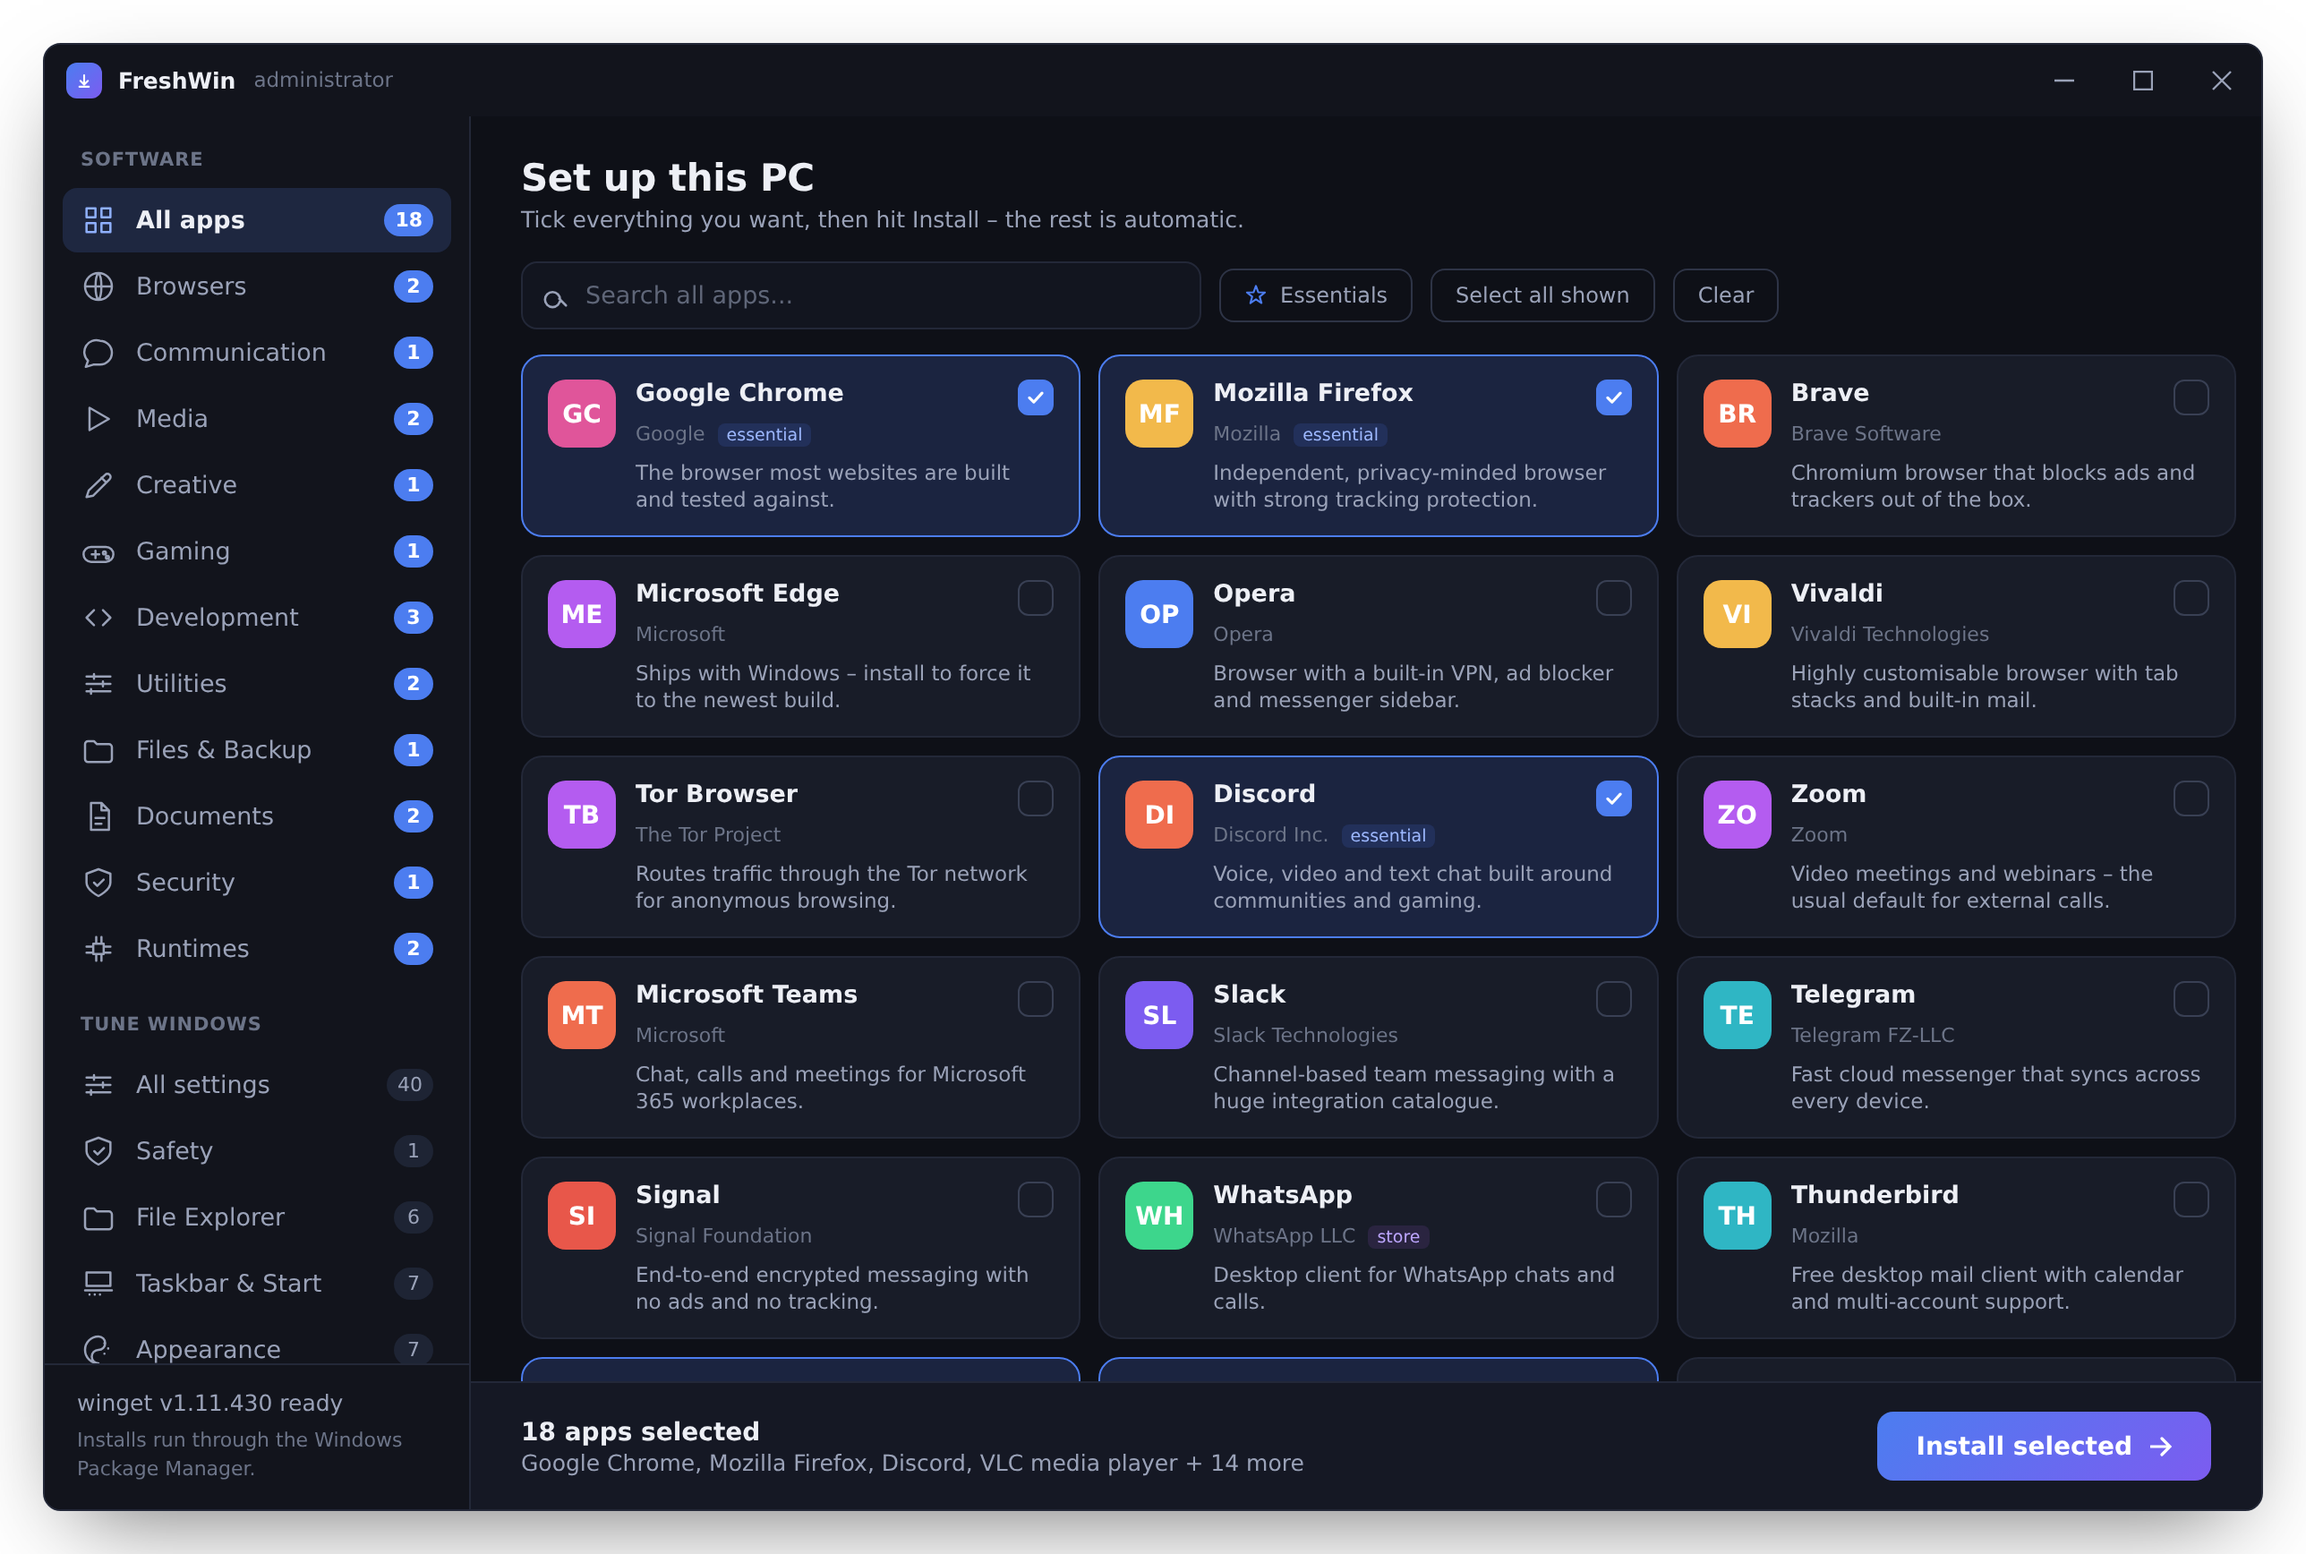
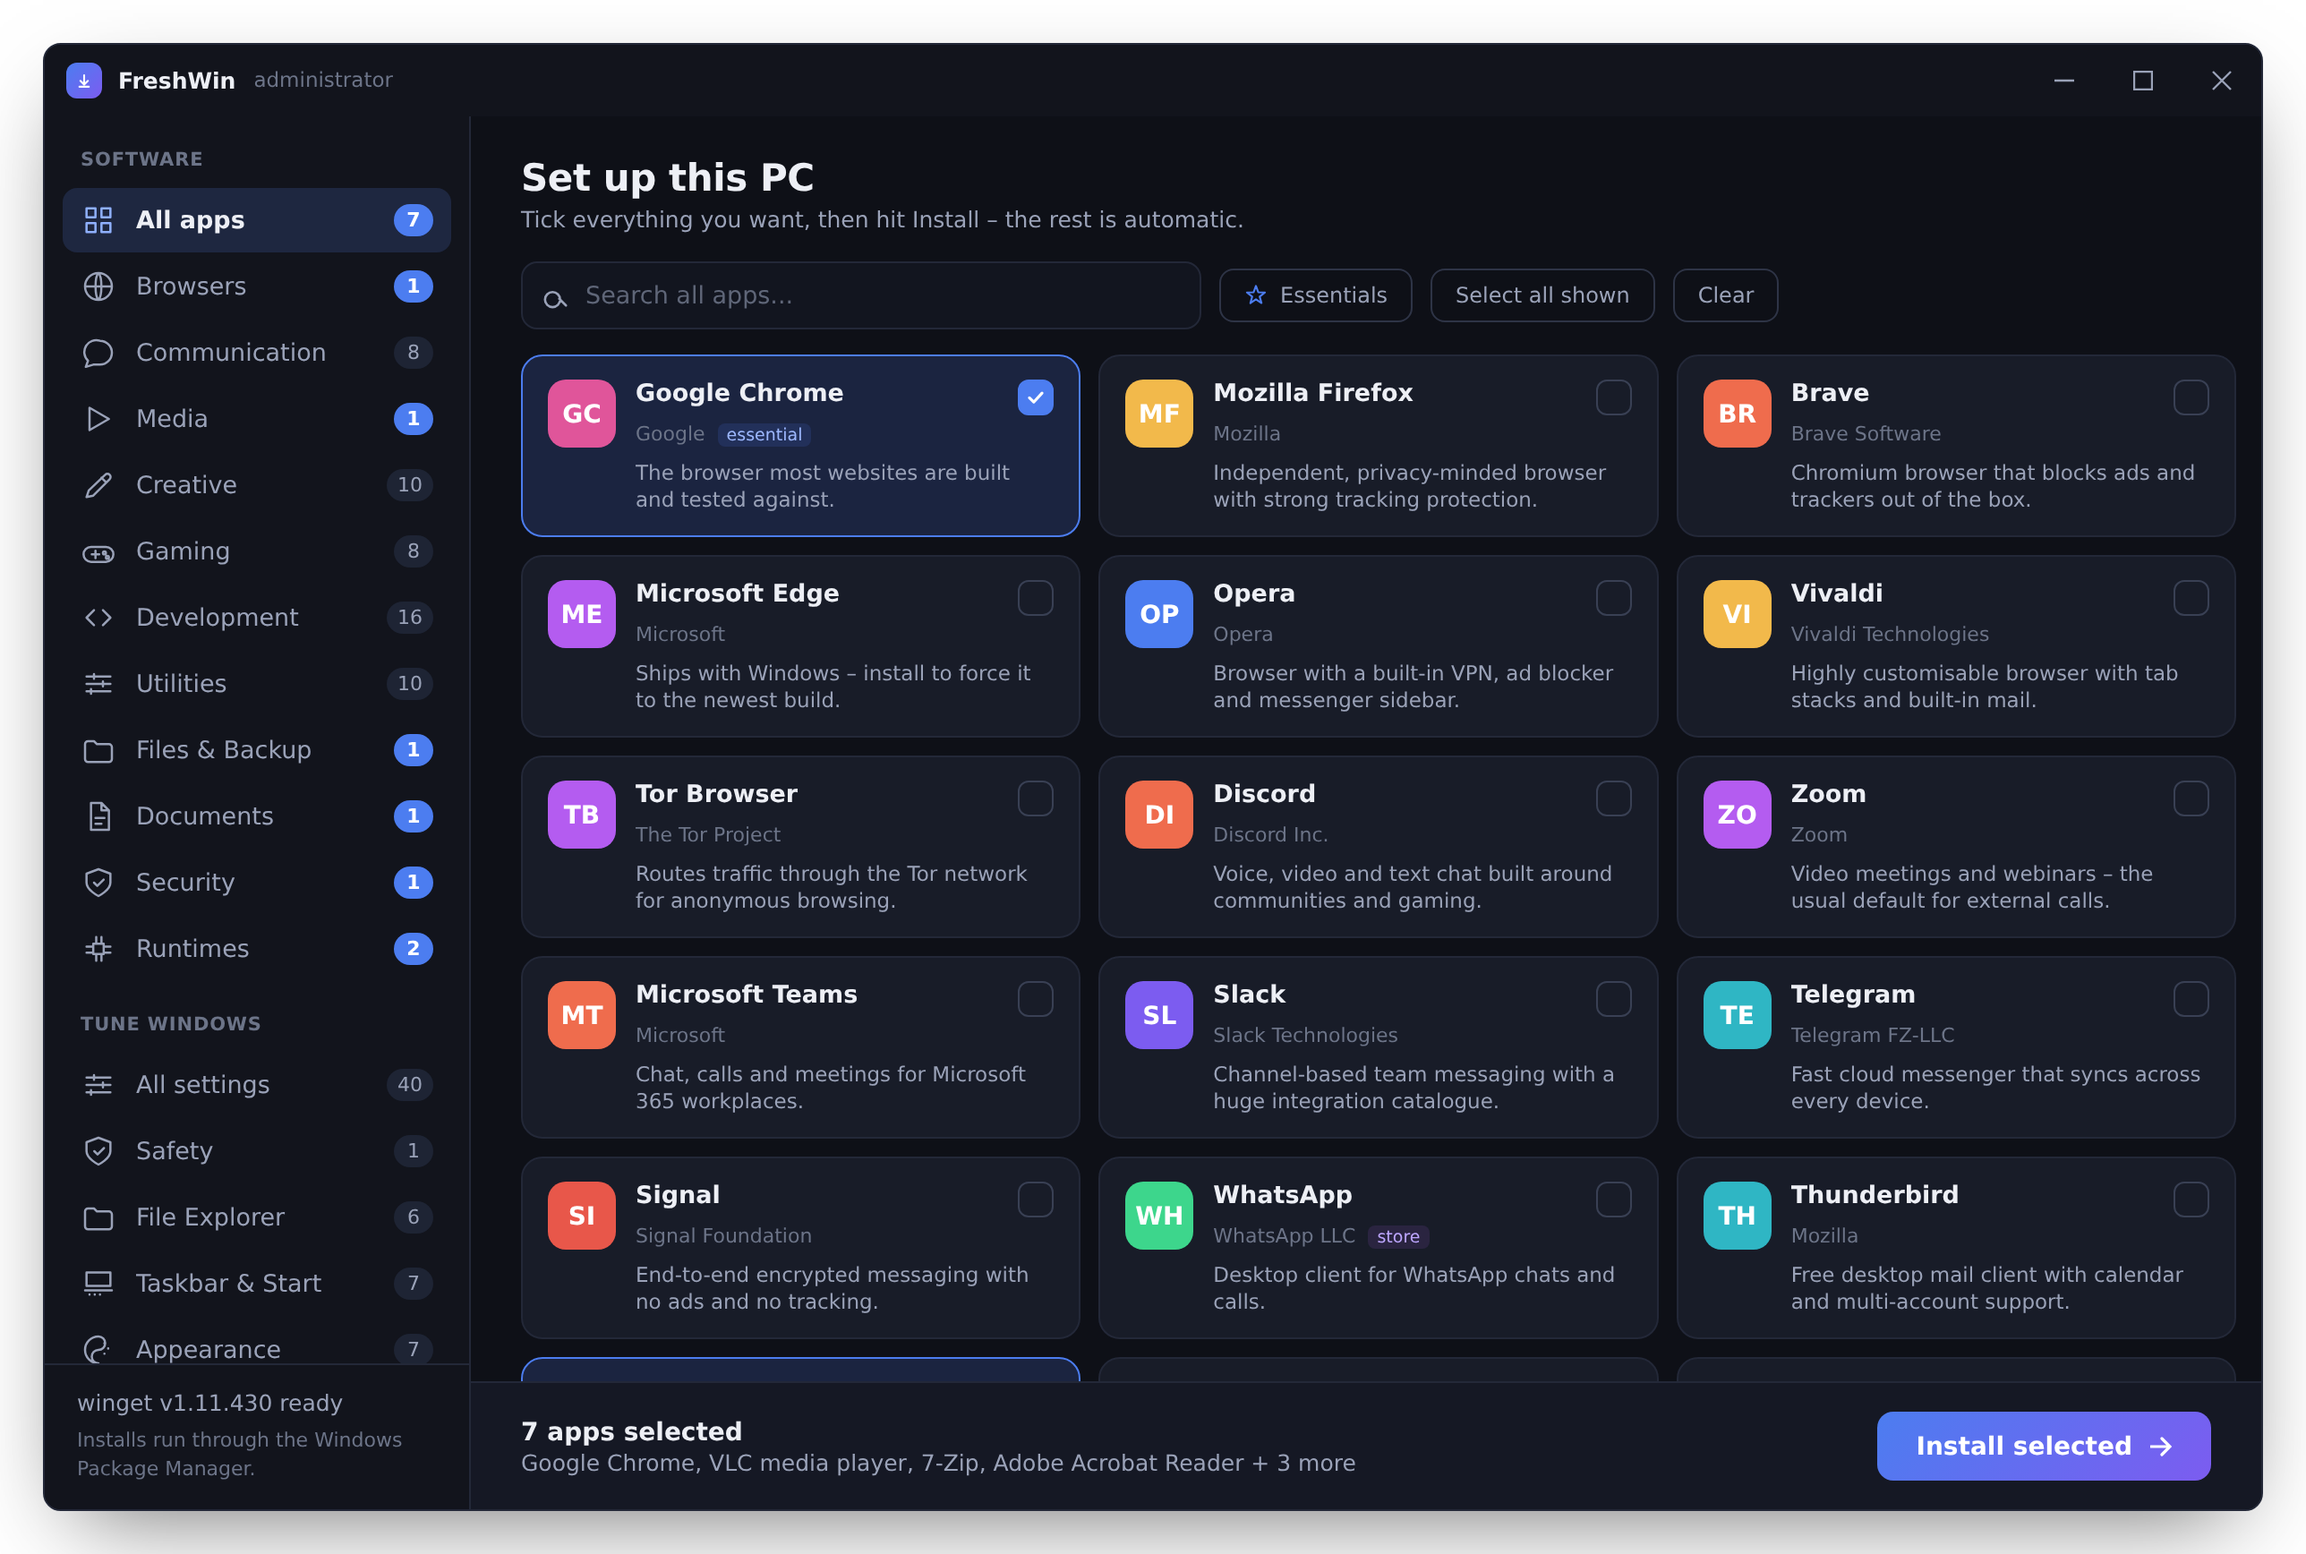
Cut Essentials down to what is genuinely universal
The preset held 18 apps and was really "what a developer who games would
install": Steam, Discord, VS Code, Git, Spotify. A preset people tick without
reading has to contain nothing that is a matter of taste, so it is now seven:
Chrome, VLC, 7-Zip, Adobe Acrobat Reader, Bitwarden, and the Visual C++ and
.NET runtimes a large share of other software expects.

Adobe Acrobat Reader replaces SumatraPDF in the preset. Sumatra is smaller and
faster, but it cannot fill in forms or handle signatures, which is most of what
people actually open a PDF reader for. Both stay in the catalogue.

LibreOffice was the worst of them: on a PC that already has Microsoft 365 it
duplicates every application and takes over the file associations.

Everything dropped is still one click away in the catalogue.

diff --git a/src/FreshWin/Services/Catalog.cs b/src/FreshWin/Services/Catalog.cs
@@ -40,7 +40,7 @@ public static class Catalog
         // ---------------------------------------------------------------- Browsers
         new() { Id = "Google.Chrome", Name = "Google Chrome", Publisher = "Google", Category = Browsers, Essential = true,
                 Description = "The browser most websites are built and tested against." },
-        new() { Id = "Mozilla.Firefox", Name = "Mozilla Firefox", Publisher = "Mozilla", Category = Browsers, Essential = true,
+        new() { Id = "Mozilla.Firefox", Name = "Mozilla Firefox", Publisher = "Mozilla", Category = Browsers,
                 Description = "Independent, privacy-minded browser with strong tracking protection." },
         new() { Id = "Brave.Brave", Name = "Brave", Publisher = "Brave Software", Category = Browsers,
                 Description = "Chromium browser that blocks ads and trackers out of the box." },
@@ -54,7 +54,7 @@ public static class Catalog
                 Description = "Routes traffic through the Tor network for anonymous browsing." },
 
         // ----------------------------------------------------------- Communication
-        new() { Id = "Discord.Discord", Name = "Discord", Publisher = "Discord Inc.", Category = Communication, Essential = true,
+        new() { Id = "Discord.Discord", Name = "Discord", Publisher = "Discord Inc.", Category = Communication,
                 Description = "Voice, video and text chat built around communities and gaming." },
         new() { Id = "Zoom.Zoom", Name = "Zoom", Publisher = "Zoom", Category = Communication,
                 Description = "Video meetings and webinars – the usual default for external calls." },
@@ -74,7 +74,7 @@ public static class Catalog
         // ------------------------------------------------------------------- Media
         new() { Id = "VideoLAN.VLC", Name = "VLC media player", Publisher = "VideoLAN", Category = Media, Essential = true,
                 Description = "Plays essentially every video and audio format without extra codecs." },
-        new() { Id = "Spotify.Spotify", Name = "Spotify", Publisher = "Spotify AB", Category = Media, Essential = true,
+        new() { Id = "Spotify.Spotify", Name = "Spotify", Publisher = "Spotify AB", Category = Media,
                 Description = "Music and podcast streaming desktop client." },
         new() { Id = "CodecGuide.K-LiteCodecPack.Standard", Name = "K-Lite Codec Pack", Publisher = "Codec Guide", Category = Media,
                 Description = "Codec bundle plus MPC-HC for playing awkward media files." },
@@ -90,7 +90,7 @@ public static class Catalog
                 Description = "Converts and compresses video into modern formats." },
 
         // ---------------------------------------------------------------- Creative
-        new() { Id = "ShareX.ShareX", Name = "ShareX", Publisher = "ShareX Team", Category = Creative, Essential = true,
+        new() { Id = "ShareX.ShareX", Name = "ShareX", Publisher = "ShareX Team", Category = Creative,
                 Description = "Screenshots, screen recording, OCR and instant uploads." },
         new() { Id = "GIMP.GIMP", Name = "GIMP", Publisher = "GIMP Team", Category = Creative,
                 Description = "Full-featured free image editor – the classic Photoshop stand-in." },
@@ -112,7 +112,7 @@ public static class Catalog
                 Description = "Desktop app for collaborative interface design." },
 
         // ------------------------------------------------------------------ Gaming
-        new() { Id = "Valve.Steam", Name = "Steam", Publisher = "Valve", Category = Gaming, Essential = true,
+        new() { Id = "Valve.Steam", Name = "Steam", Publisher = "Valve", Category = Gaming,
                 Description = "The main PC games store and library manager." },
         new() { Id = "EpicGames.EpicGamesLauncher", Name = "Epic Games Launcher", Publisher = "Epic Games", Category = Gaming,
                 Description = "Fortnite, Unreal Engine and the weekly free game giveaways." },
@@ -130,11 +130,11 @@ public static class Catalog
                 Description = "One unified library and launcher for all your game stores." },
 
         // ------------------------------------------------------------- Development
-        new() { Id = "Microsoft.VisualStudioCode", Name = "Visual Studio Code", Publisher = "Microsoft", Category = Development, Essential = true,
+        new() { Id = "Microsoft.VisualStudioCode", Name = "Visual Studio Code", Publisher = "Microsoft", Category = Development,
                 Description = "The default code editor for most languages, with a huge extension market." },
-        new() { Id = "Git.Git", Name = "Git", Publisher = "Git", Category = Development, Essential = true,
+        new() { Id = "Git.Git", Name = "Git", Publisher = "Git", Category = Development,
                 Description = "Version control – required by nearly every dev toolchain." },
-        new() { Id = "Notepad++.Notepad++", Name = "Notepad++", Publisher = "Notepad++ Team", Category = Development, Essential = true,
+        new() { Id = "Notepad++.Notepad++", Name = "Notepad++", Publisher = "Notepad++ Team", Category = Development,
                 Description = "Fast text editor for quick edits, logs and config files." },
         new() { Id = "Microsoft.WindowsTerminal", Name = "Windows Terminal", Publisher = "Microsoft", Category = Development,
                 Description = "Tabbed terminal for PowerShell, CMD and WSL." },
@@ -164,9 +164,9 @@ public static class Catalog
                 Description = "Captures and dissects network traffic packet by packet." },
 
         // ---------------------------------------------------------------- Utilities
-        new() { Id = "Microsoft.PowerToys", Name = "Microsoft PowerToys", Publisher = "Microsoft", Category = Utilities, Essential = true,
+        new() { Id = "Microsoft.PowerToys", Name = "Microsoft PowerToys", Publisher = "Microsoft", Category = Utilities,
                 Description = "FancyZones, PowerRename, Run, colour picker – the power-user pack." },
-        new() { Id = "voidtools.Everything", Name = "Everything", Publisher = "voidtools", Category = Utilities, Essential = true,
+        new() { Id = "voidtools.Everything", Name = "Everything", Publisher = "voidtools", Category = Utilities,
                 Description = "Instant filename search – finds any file the moment you type." },
         new() { Id = "CPUID.CPU-Z", Name = "CPU-Z", Publisher = "CPUID", Category = Utilities,
                 Description = "Reports exactly which CPU, RAM and mainboard you have." },
@@ -206,13 +206,13 @@ public static class Catalog
                 Description = "Microsoft cloud storage integrated with Windows and Office." },
 
         // -------------------------------------------------------------- Documents
-        new() { Id = "TheDocumentFoundation.LibreOffice", Name = "LibreOffice", Publisher = "The Document Foundation", Category = Documents, Essential = true,
+        new() { Id = "TheDocumentFoundation.LibreOffice", Name = "LibreOffice", Publisher = "The Document Foundation", Category = Documents,
                 Description = "Free office suite that reads and writes Word, Excel and PowerPoint files." },
         new() { Id = "ONLYOFFICE.DesktopEditors", Name = "ONLYOFFICE", Publisher = "Ascensio System", Category = Documents,
                 Description = "Office suite with the closest match to Microsoft formatting." },
-        new() { Id = "SumatraPDF.SumatraPDF", Name = "SumatraPDF", Publisher = "Krzysztof Kowalczyk", Category = Documents, Essential = true,
+        new() { Id = "SumatraPDF.SumatraPDF", Name = "SumatraPDF", Publisher = "Krzysztof Kowalczyk", Category = Documents,
                 Description = "Tiny, instant PDF and e-book reader." },
-        new() { Id = "Adobe.Acrobat.Reader.64-bit", Name = "Adobe Acrobat Reader", Publisher = "Adobe", Category = Documents,
+        new() { Id = "Adobe.Acrobat.Reader.64-bit", Name = "Adobe Acrobat Reader", Publisher = "Adobe", Category = Documents, Essential = true,
                 Description = "The reference PDF reader, for forms and signatures." },
         new() { Id = "Obsidian.Obsidian", Name = "Obsidian", Publisher = "Obsidian", Category = Documents,
                 Description = "Markdown notes stored as plain files you own." },

diff --git a/README.md b/README.md
@@ -13,8 +13,14 @@ config files to edit.
 
 **Software — 91 programs** grouped into Browsers, Communication, Media, Creative, Gaming,
 Development, Utilities, Files & Backup, Documents, Security and Runtimes. Every package id
-is verified against the official winget index. An **Essentials** preset ticks the 18 apps
-almost every PC wants.
+is verified against the official winget index.
+
+An **Essentials** preset ticks seven things worth having on any PC regardless of what it is
+for: Chrome, VLC, 7-Zip, Adobe Acrobat Reader, Bitwarden, and the Visual C++ and .NET
+runtimes that a large share of other software expects. It is deliberately short — a preset
+you can tick without reading is only useful if nothing in it is a matter of taste. Steam,
+Discord, VS Code, LibreOffice and the rest are all in the catalogue, one click away, but
+they belong to a particular kind of user rather than to everyone.
 
 **Tune Windows — 40 settings** across Safety, File Explorer, Taskbar & Start, Appearance,
 Privacy and Performance: show file extensions, open Explorer on This PC, hide the Widgets
